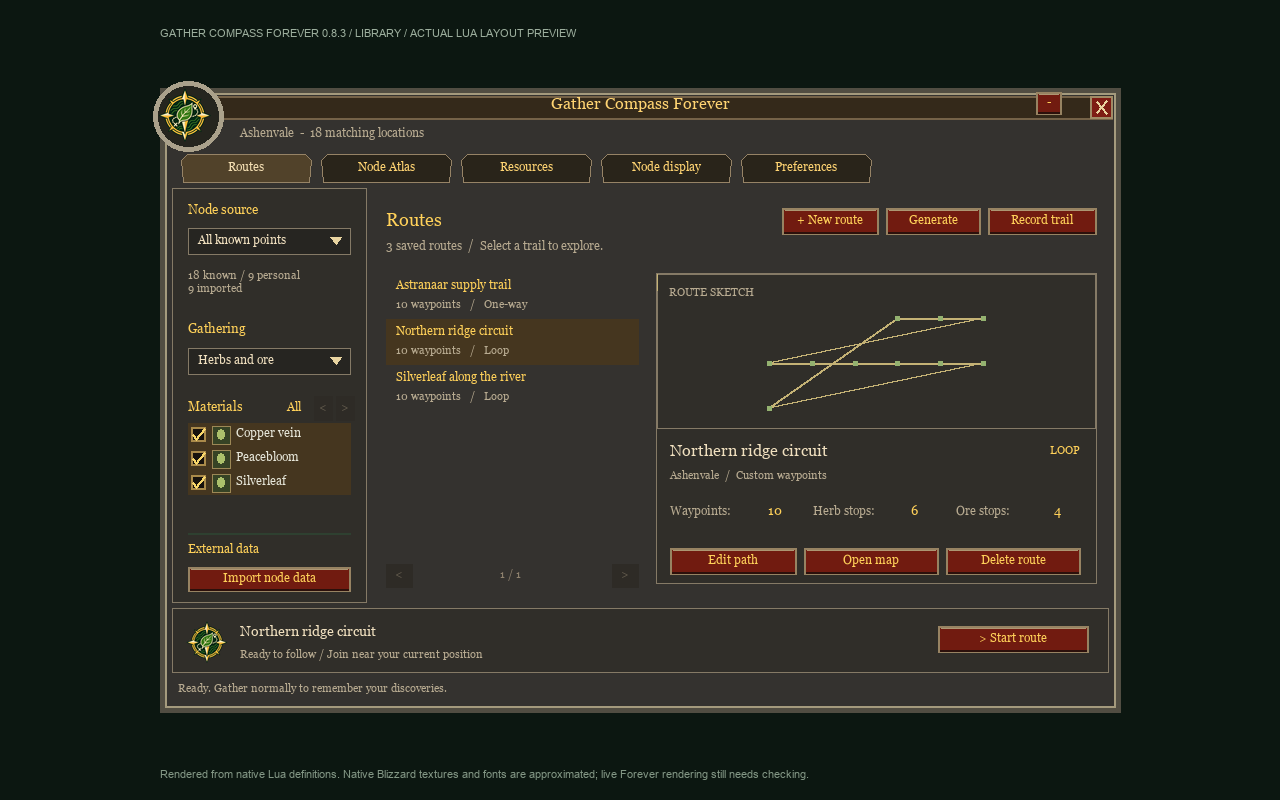
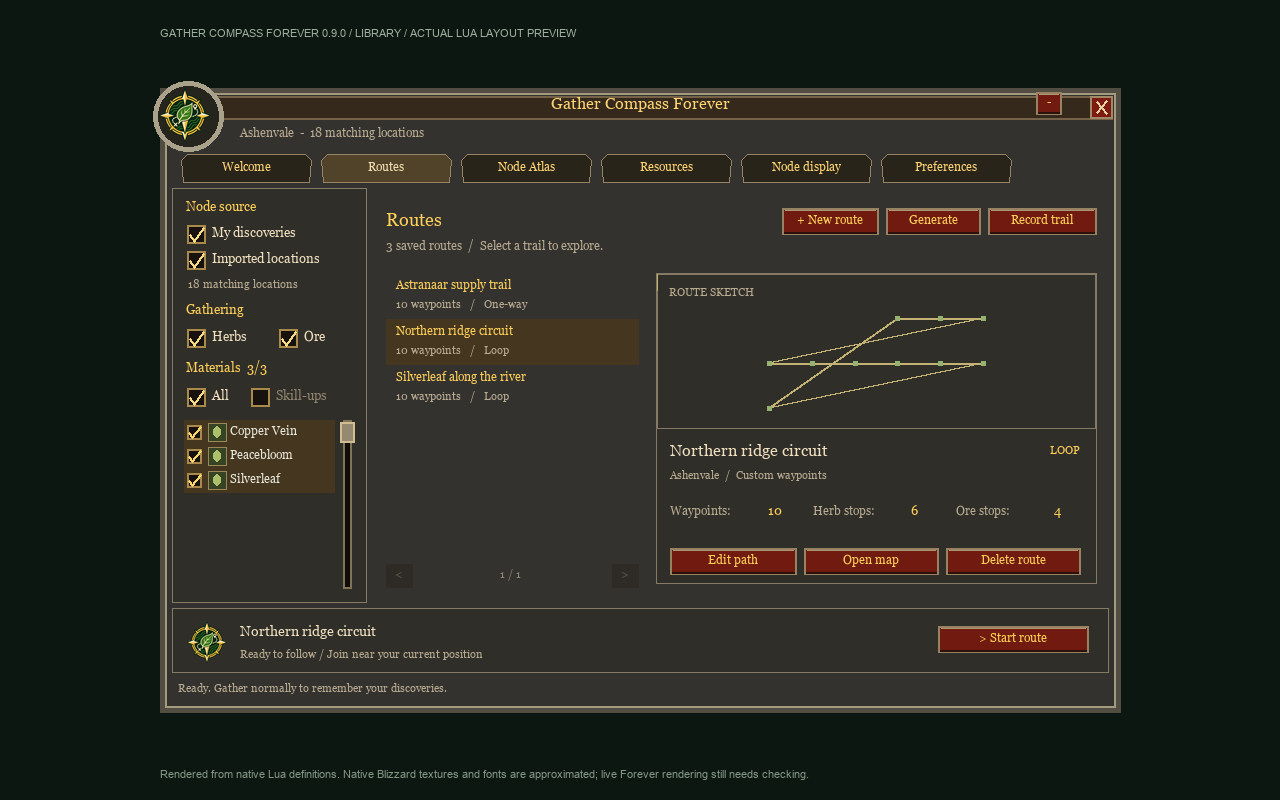
Add Welcome onboarding and centralize node data import

diff --git a/tools/render_ui_preview.py b/tools/render_ui_preview.py
@@ -28,7 +28,7 @@ CreateFrame=function(...)
  f.SetEndPoint=function(self,...) self.lineEnd={...} end
  return f
 end
-A={};for _,m in ipairs({'Store','Client','Resources','Selection','Atlas','ResourceLibrary','DifficultyProbe','Editor','Recorder','Planner','Follower','Map','Skin','Dropdown','RouteSketch','AtlasView','ResourceLibraryView','UIActions','FilterSidebar','UI','Arrow','MinimapButton'}) do assert(loadfile(m..'.lua'))('GatherCompassForever',A) end
+A={};for _,m in ipairs({'Store','Client','Resources','Selection','Atlas','ResourceLibrary','DifficultyProbe','Editor','Recorder','Planner','Follower','Map','Skin','Dropdown','RouteSketch','AtlasView','ResourceLibraryView','UIActions','FilterSidebar','WelcomeView','UI','Arrow','MinimapButton'}) do assert(loadfile(m..'.lua'))('GatherCompassForever',A) end
 A.db=A.Store.Open();A.Client.Position=function() return {mapID=1,x=.2,y=.4} end
 A.Client.Size=function() return 1000,600 end
 A.Client.Distance=function(a,b) if not a or not b or a.mapID~=b.mapID then return end;return math.sqrt(((a.x-b.x)*1000)^2+((a.y-b.y)*600)^2) end
@@ -91,6 +91,9 @@ local p=A.editor.draft.points[4];dragX,dragY=p.x,p.y;WorldMapFrame.ScrollContain
     if scene=='recording':lua.execute("A.UI.controls.record.scripts.OnClick(); for i=1,6 do A.recording:Sample({mapID=1,x=.2+i*.02,y=.4+i*.01},i) end;A.UI.Refresh()")
     if scene=='compact':lua.execute('A.UI.controls.start.scripts.OnClick();A.UI.OpenRoutes();A.UI.SetCompact(true)')
     if scene=='preferences':lua.execute("A.UI.SetTab('settings')")
+    if scene in ('welcome','welcome_importing'):
+        lua.execute("A.UI.SetTab('welcome')")
+        if scene=='welcome_importing':lua.execute("A.importJob=coroutine.create(function() end);A.status='Importing all zones: 1240 locations...';A.UI.Refresh()")
     if scene in ('nodes','dropdown'):lua.execute("A.UI.SetTab('nodes')")
     if scene=='dropdown':lua.execute("A.UI.controls.nodeDistance.scripts.OnClick(A.UI.controls.nodeDistance)")
     if scene in ('arrow_hidden_progress','arrow_paused','arrow_no_direction'):
@@ -133,7 +136,7 @@ local p=A.editor.draft.points[4];dragX,dragY=p.x,p.y;WorldMapFrame.ScrollContain
         resolving.remove(k);boxes[k]=r;return r
     def visible(o):return o['shown'] is not False and (o['parent'] is None or ident(o['parent'])==0 or visible(o['parent']))
     im=Image.new('RGBA',(1280,800),'#0c1711');d=ImageDraw.Draw(im)
-    d.text((160,27),'GATHER COMPASS FOREVER 0.8.8 / '+scene.upper()+' / ACTUAL LUA LAYOUT PREVIEW',font=ImageFont.truetype('C:/Windows/Fonts/arial.ttf',11),fill='#9cae9d')
+    d.text((160,27),'GATHER COMPASS FOREVER 0.9.0 / '+scene.upper()+' / ACTUAL LUA LAYOUT PREVIEW',font=ImageFont.truetype('C:/Windows/Fonts/arial.ttf',11),fill='#9cae9d')
     fonts={}; text_report=[]
     def font(o):
         size=int(o['fontSize'] or 12);family='georgia.ttf' if 'FRIZ' in (o['fontPath'] or '') else 'arial.ttf';key=(family,size)
@@ -257,4 +260,4 @@ local p=A.editor.draft.points[4];dragX,dragY=p.x,p.y;WorldMapFrame.ScrollContain
     path=out/(scene+'.png');im.convert('RGB').save(path)
     (out/(scene+'.json')).write_text(json.dumps(text_report,indent=2),encoding='utf-8')
     print(path)
-for scene in ['filters_scroll','filters_scroll_end','library','map_editor','map_editor_drag','map_following','resources','resources_herb','resources_ore','resources_zero','resources_search_empty','resources_page2','resources_restored_preferences','minimap_button','material_skills','empty','editing','recording','compact','preferences','atlas','atlas_zones','atlas_all_zones','atlas_locations_page2','atlas_empty','nodes','arrow','arrow_name','arrow_name_no_progress','arrow_hidden_progress','arrow_paused','arrow_no_direction','dropdown']:render(scene)
+for scene in ['welcome','welcome_importing','filters_scroll','filters_scroll_end','library','map_editor','map_editor_drag','map_following','resources','resources_herb','resources_ore','resources_zero','resources_search_empty','resources_page2','resources_restored_preferences','minimap_button','material_skills','empty','editing','recording','compact','preferences','atlas','atlas_zones','atlas_all_zones','atlas_locations_page2','atlas_empty','nodes','arrow','arrow_name','arrow_name_no_progress','arrow_hidden_progress','arrow_paused','arrow_no_direction','dropdown']:render(scene)

diff --git a/tests/package.py b/tests/package.py
@@ -1,7 +1,7 @@
 from pathlib import Path
 import zipfile
 root = Path(__file__).resolve().parents[1]
-path = root / 'dist/GatherCompassForever-0.8.8.zip'
+path = root / 'dist/GatherCompassForever-0.9.0.zip'
 assert path.is_file(), 'Installable ZIP missing'
 with zipfile.ZipFile(path) as z:
     names = z.namelist()
@@ -11,7 +11,7 @@ with zipfile.ZipFile(path) as z:
     metadata = dict(line[3:].split(': ', 1) for line in toc.splitlines() if line.startswith('## '))
     assert metadata['Title'] == 'Gather Compass Forever'
     assert metadata['SavedVariables'] == 'GatherCompassForeverDB'
-    assert metadata['Version'] == '0.8.8'
+    assert metadata['Version'] == '0.9.0'
     assert metadata['X-License'] == 'MIT'
     assert metadata['IconTexture'] == r'Interface\AddOns\GatherCompassForever\Media\Icon'
     for texture in ['Icon', 'LogoSheet', 'EmptyEmblem', 'NodeRing', 'NodeSquare', 'GuideArrow']:

diff --git a/tools/package.py b/tools/package.py
@@ -14,7 +14,7 @@ for name in files:
     assert (root / name).is_file(), f'Missing package file: {name}'
 dist = root / 'dist'
 dist.mkdir(exist_ok=True)
-path = dist / 'GatherCompassForever-0.8.8.zip'
+path = dist / 'GatherCompassForever-0.9.0.zip'
 with zipfile.ZipFile(path, 'w', zipfile.ZIP_DEFLATED) as z:
     for name in files:
         z.write(root / name, 'GatherCompassForever/' + name)

diff --git a/README.md b/README.md
@@ -14,7 +14,7 @@ where resources grow, build farming routes and follow a clear in-game guide arro
 ![Tests](https://github.com/Red463/GatherCompassForever/actions/workflows/ci.yml/badge.svg)
 ![MIT license](https://img.shields.io/badge/license-MIT-green.svg)
 
-**Current version:** 0.8.8 ? **Client interface:** 16001 ? **Command:** `/gcf`
+**Current version:** 0.9.0 ? **Client interface:** 16001 ? **Command:** `/gcf`
 
 ## What it does
 
@@ -23,7 +23,8 @@ where resources grow, build farming routes and follow a clear in-game guide arro
 - **Import all zones.** Read installed GatherMate2_Data directly, with GatherMate2's
   saved observations as a fallback. Repeated imports merge matching locations.
 - **Choose what to farm.** Filter by source, herbs/ore and individual materials, with
-  skill-coloured material names and icons.
+  shared checkboxes for maps and generated routes, a scrolling material list and
+  one-time skill-up material selection.
 - **Build routes your way.** Generate a resource-based loop, draw a custom route,
   record a travelled path or drag existing waypoints on the world map.
 - **Follow the path.** World-map lines, minimap guidance and a smooth gold arrow show
@@ -37,7 +38,7 @@ where resources grow, build farming routes and follow a clear in-game guide arro
 
 ## Install
 
-1. Download `GatherCompassForever-0.8.8.zip` from
+1. Download `GatherCompassForever-0.9.0.zip` from
    [Releases](https://github.com/Red463/GatherCompassForever/releases/latest).
    Choose the addon ZIP asset rather than GitHub's automatic **Source code** ZIP.
 2. Close WoW and extract the `GatherCompassForever` folder into your Forever
@@ -54,7 +55,8 @@ routes, known locations and preferences. The addon is built for Forever's interf
 ### Optional node data
 
 Install the **Forever-compatible** versions of GatherMate2 and GatherMate2_Data,
-then click **Import node data**. The data pack declares GatherMate2 as a dependency,
+then open **Welcome** and click **Import node data**. This is the only import button.
+The data pack declares GatherMate2 as a dependency,
 so keep both enabled even though this addon reads the pack directly.
 
 Importing covers all available zones regardless of your location or route filters.
@@ -66,6 +68,18 @@ without an external data pack.
 These are **layout previews rendered from the addon's Lua UI**, with substitute
 fonts, placeholder resource icons and an illustrative map canvas. They are not
 in-game screenshots; actual Forever textures and rendering can differ.
+
+### Welcome and shared filters
+
+Welcome introduces the workflow, imports all available zones and shows import status.
+It appears on first use; guide-arrow clicks still open Routes directly.
+
+![Welcome tab with introduction, all-zone import and quick navigation](docs/images/welcome.png)
+
+Source and Gathering use independent checkboxes. The material list supports mouse-wheel
+scrolling and a scrollbar, with icons and skill-coloured names.
+
+![Checkbox filters and a vertically scrolling material list](docs/images/filters.png)
 
 ### Route library
 
@@ -105,8 +119,8 @@ protection so a stationary player cannot repeatedly advance through a loop.
 
 ## First farming loop
 
-1. Gather a few nodes or import node data.
-2. In **Routes**, choose your node source, gathering type and materials.
+1. Gather a few nodes or import node data from **Welcome**.
+2. In **Routes**, tick your node sources, gathering types and materials.
 3. Click **Generate** to create a named draft from matching current-zone locations.
 4. Review the route and add detours around terrain on **Edit on map**. Save it.
 5. Click **Start route**. Use the arrow, world map and minimap to follow the route.
@@ -119,8 +133,8 @@ sketch in the panel; stopping or completing guidance clears its map lines.
 The **Node Atlas** provides per-resource location browsing, zone comparisons,
 resource-specific route drafts and nearest-location guidance. The separate
 **Resources** tab provides the full item catalogue, independent of your route filters.
-Clicking a ranked zone temporarily focuses that resource on the world map; closing
-the map restores its usual display.
+Clicking a ranked zone temporarily focuses that resource on the world map, subject
+to your shared checkbox filters. Closing the map restores its usual display.
 
 ## Settings and commands
 
@@ -135,10 +149,16 @@ the map restores its usual display.
 | `/gcf inspect report` | Show the latest local capture |
 | `/gcf inspect off` | Cancel a pending capture |
 
-The **Gathering** dropdown filters this addon's node markers on both maps:
-**Herbs**, **Ore** or **Both**. Changes apply immediately. Choose a matching type or
-Both when viewing a resource's locations. Material checkboxes filter route
-generation separately; they do not hide individual map resources.
+The sidebar filters this addon's node markers on both maps and new route generation
+together. Tick **My discoveries**, **Imported locations**, **Herbs** and **Ore** in any
+combination, then tick individual materials. Unticking every source or type gives no
+matching nodes; it does not reset your choices. These selections do not change a
+saved route or interrupt guidance already running.
+
+**All** selects all materials; untick it to clear the selection. **Skill-ups** selects
+known orange, yellow and green materials across matching known zones once. It excludes
+grey, too-difficult and unknown resources, and you can edit the result afterward.
+The selected materials do not change automatically when your profession skill rises.
 
 **Node display** controls marker appearance, difficulty colours, icon-hide distance
 and minimap route visibility. Its three opacity sliders independently adjust

diff --git a/CHANGELOG.md b/CHANGELOG.md
@@ -1,5 +1,14 @@
 # Changelog
 
+## 0.9.0
+
+- Replace node-source and gathering dropdowns with combinable checkboxes, including explicit empty selections.
+- Share source, gathering and material filters between both maps and new route generation.
+- Add All and one-time Skill-ups material selection, retaining individual edits and skill colours.
+- Replace material pages with a vertically scrolling list and Classic scrollbar.
+- Add a first-use Welcome tab with introduction, import progress and the sole import button.
+- Preserve saved data, active guidance, editor drafts, marker opacity and native minimap tracking clearance.
+
 ## 0.8.8
 
 - Make Gathering filter node markers on both the world map and minimap: Herbs, Ore or Both.
